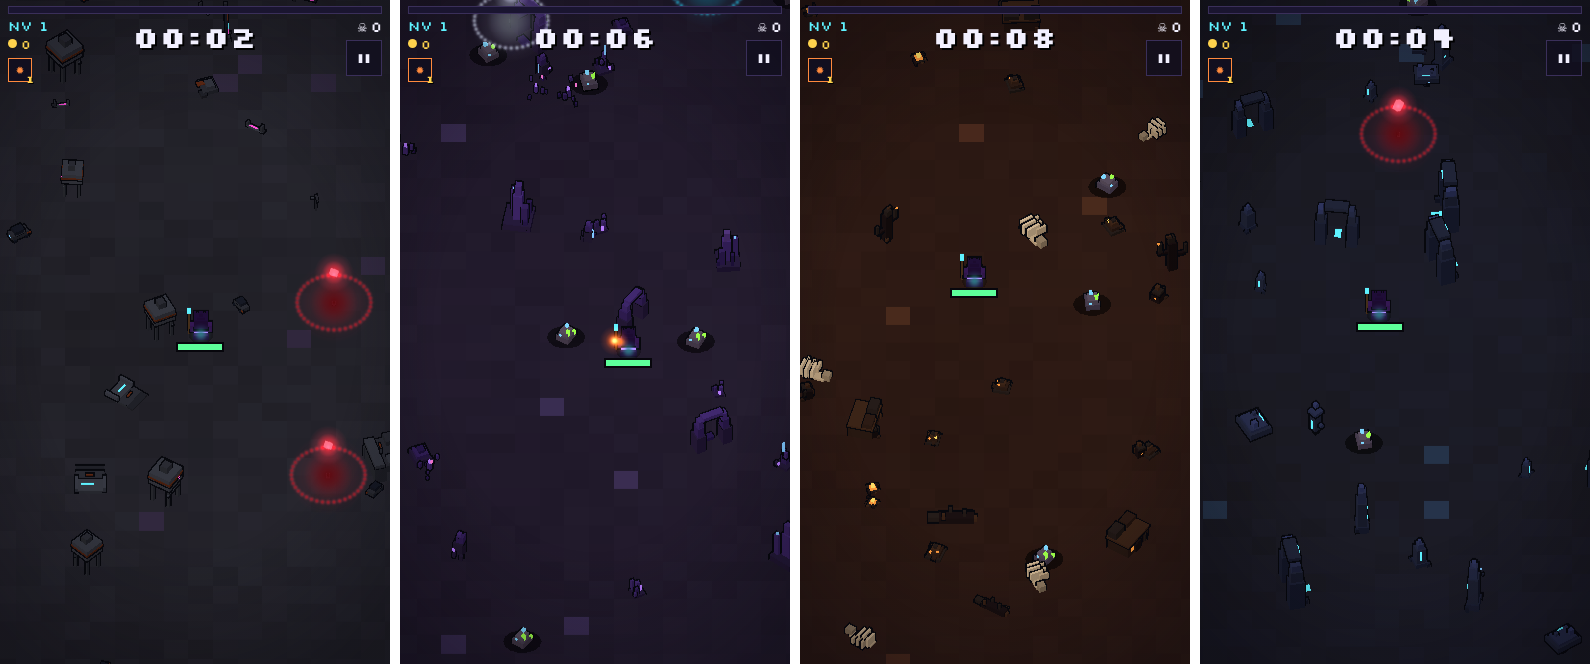
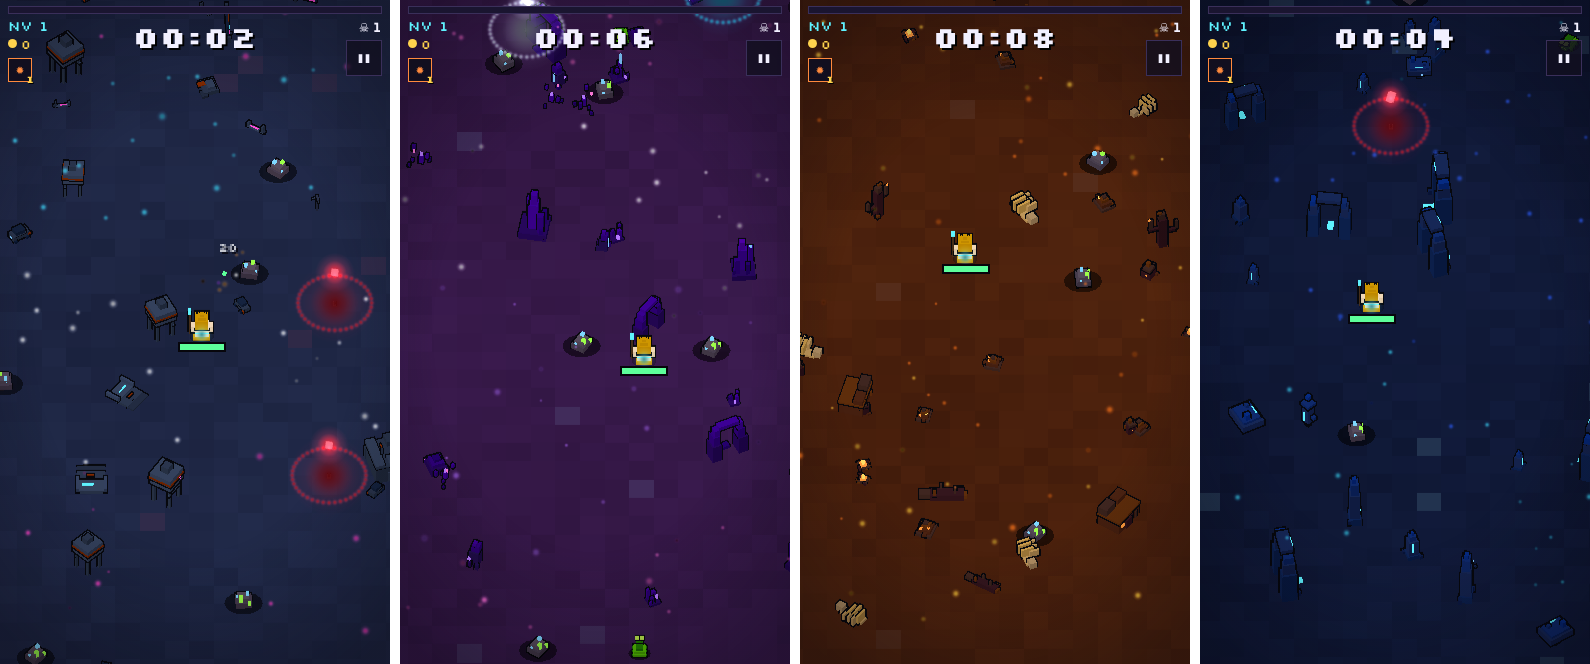
Fendas: partículas de ambiente por zona
Gerado pelo DeepSeek; corrigido o deslocamento longe da origem e ampliado para aparecer em vídeo.

Claude-Session: https://claude.ai/code/session_01WRCoqodzhoke4LbZ8Att11

diff --git a/fendas/js/game/ambient.js b/fendas/js/game/ambient.js
@@ -1,3 +1,66 @@
-// Partículas de ambiente por zona (cinzas, faíscas, poeira de cristal...). Desenhadas no GlowPool a cada quadro.
-// drawAmbient(glow, cx, cz, viewW, viewH, zone, t) — a preencher.
-export function drawAmbient() {}
+// Partículas de ambiente por zona (poeira, cristal, cinzas, abismo).
+// Sem estado e sem alocação por quadro: tudo vem de hash(i) + t.
+
+const TAU = Math.PI * 2;
+const mod = (a, b) => a - Math.floor(a / b) * b;
+// hash estável por índice -> [0,1)
+const hash = (i, s) => {
+  const v = Math.sin(i * 127.1 + s * 311.7) * 43758.5453;
+  return v - Math.floor(v);
+};
+
+const ZONE_FX = {
+  // poeira/neon flutuando devagar
+  cidade: { n: 55, colors: ['#ff40c0', '#40e0ff', '#ffffff'], size: [0.18, 0.48], k: 0.60, move: 'float' },
+  // poeira de cristal cintilando
+  cristal: { n: 60, colors: ['#b070ff', '#ff70d0', '#ffffff'], size: [0.15, 0.45], k: 0.70, move: 'twinkle' },
+  // brasas e cinzas subindo
+  cinzas: { n: 65, colors: ['#ff7a20', '#ffd040'], size: [0.15, 0.45], k: 0.65, move: 'rise' },
+  // partículas descendo devagar em espiral
+  abismo: { n: 50, colors: ['#40e0ff', '#3060ff'], size: [0.15, 0.39], k: 0.55, move: 'fall' },
+};
+
+export function drawAmbient(glow, cx, cz, viewW, viewH, zone, t) {
+  const fx = ZONE_FX[zone] || ZONE_FX.cidade; // zona desconhecida -> cidade
+  const spanX = viewW + 2;                     // área que repete (cobre a tela)
+  const spanZ = viewH * 1.2 + 2;               // cobre cz ± viewH*0.6
+  const [smin, smax] = fx.size;
+
+  for (let i = 0; i < fx.n; i++) {
+    const h1 = hash(i, 1), h2 = hash(i, 2), h3 = hash(i, 3), h4 = hash(i, 4);
+    const par = 0.82 + h4 * 0.18;              // paralaxe leve em relação ao mundo
+    const color = fx.colors[(h2 * fx.colors.length) | 0];
+    const size = smin + (smax - smin) * h3;
+
+    let frac = mod(t / 6 + h3, 1);             // progresso do ciclo (fade suave)
+    let y = 0.25 + h4 * 0.95;
+    let sway = 0, vz = 0.12;
+
+    if (fx.move === 'rise') {                  // cinzas sobem e balançam de lado
+      frac = mod(t / 4.5 + h3, 1);
+      y = 0.15 + frac * 1.3;
+      sway = Math.sin(t * 1.7 + h1 * TAU) * 0.35;
+      vz = -0.18;
+    } else if (fx.move === 'fall') {           // abismo: desce devagar em espiral
+      frac = mod(t / 9 + h3, 1);
+      y = 1.45 - frac * 1.35;
+      sway = Math.cos(t * 0.9 + h1 * TAU) * 0.4;
+      vz = 0.10;
+    } else if (fx.move === 'twinkle') {        // cristal: leve flutuação
+      y = 0.3 + h4 * 0.9 + Math.sin(t * 0.8 + h1 * TAU) * 0.12;
+    } else {                                   // cidade: sobe/desce devagar
+      y += Math.sin(t * 0.5 + h2 * TAU) * 0.18;
+    }
+
+    // janela sempre centrada na câmera; a paralaxe só desloca a fase dentro dela
+    const x = cx + mod(h1 * spanX + t * 0.25 + sway - cx * par, spanX) - spanX / 2;
+    const z = cz + mod(h2 * spanZ + t * vz - cz * par, spanZ) - spanZ / 2;
+
+    // k com fade de entrada/saída para não haver "pulos" no reinício do ciclo
+    let k = fx.k * Math.sin(Math.PI * frac);
+    if (fx.move === 'twinkle') k *= 0.55 + 0.45 * Math.sin(t * 2.4 + h1 * TAU);
+    if (k <= 0.01) continue;
+
+    glow.add(x, y, z, size, color, k);
+  }
+}

diff --git a/fendas/README.md b/fendas/README.md
@@ -23,4 +23,6 @@ Projeto paralelo ao `rz-acao` (que continua intacto). Valida a diversão e o equ
 - Cenário sem verde, para os inimigos (verdes) se destacarem.
 - Atmosfera: a luz puxa para a cor da zona, a tela escurece e a vinheta fecha até o Guardião; aura fraca sob o Mago.
 - `?debug` na URL expõe `window.__G` para testes.
+- Paleta chamativa: chão saturado por zona, inimigos verde ácido sem escurecer, Mago marfim e ouro.
+- Partículas de ambiente por zona (`js/game/ambient.js`): neon, cintilância de cristal, brasas subindo, faíscas do abismo.
 - Prévia: `zonas-preview.png`.
